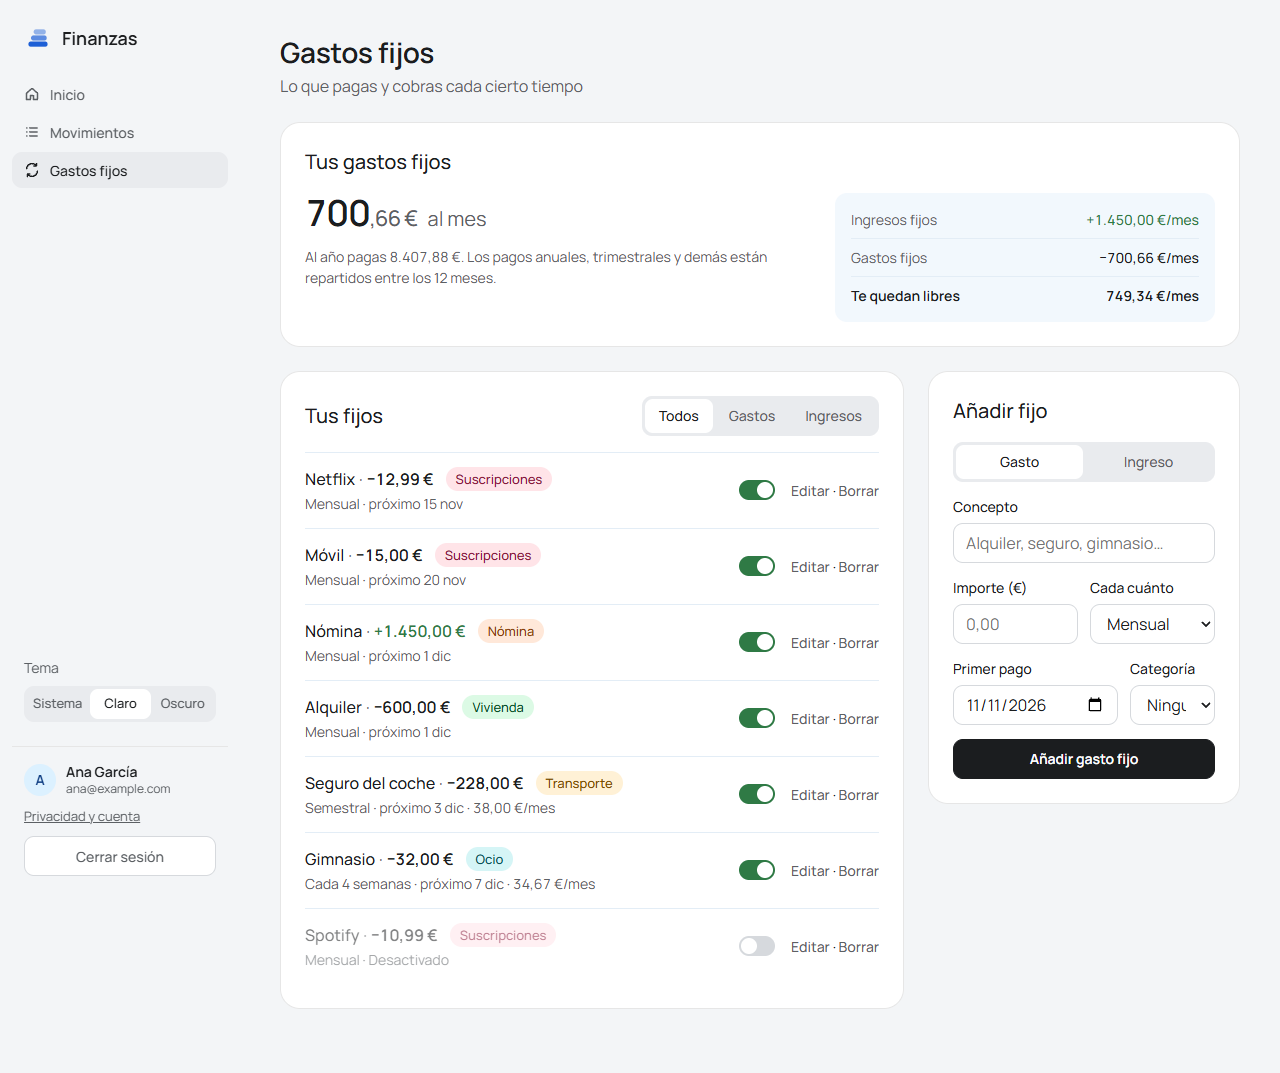
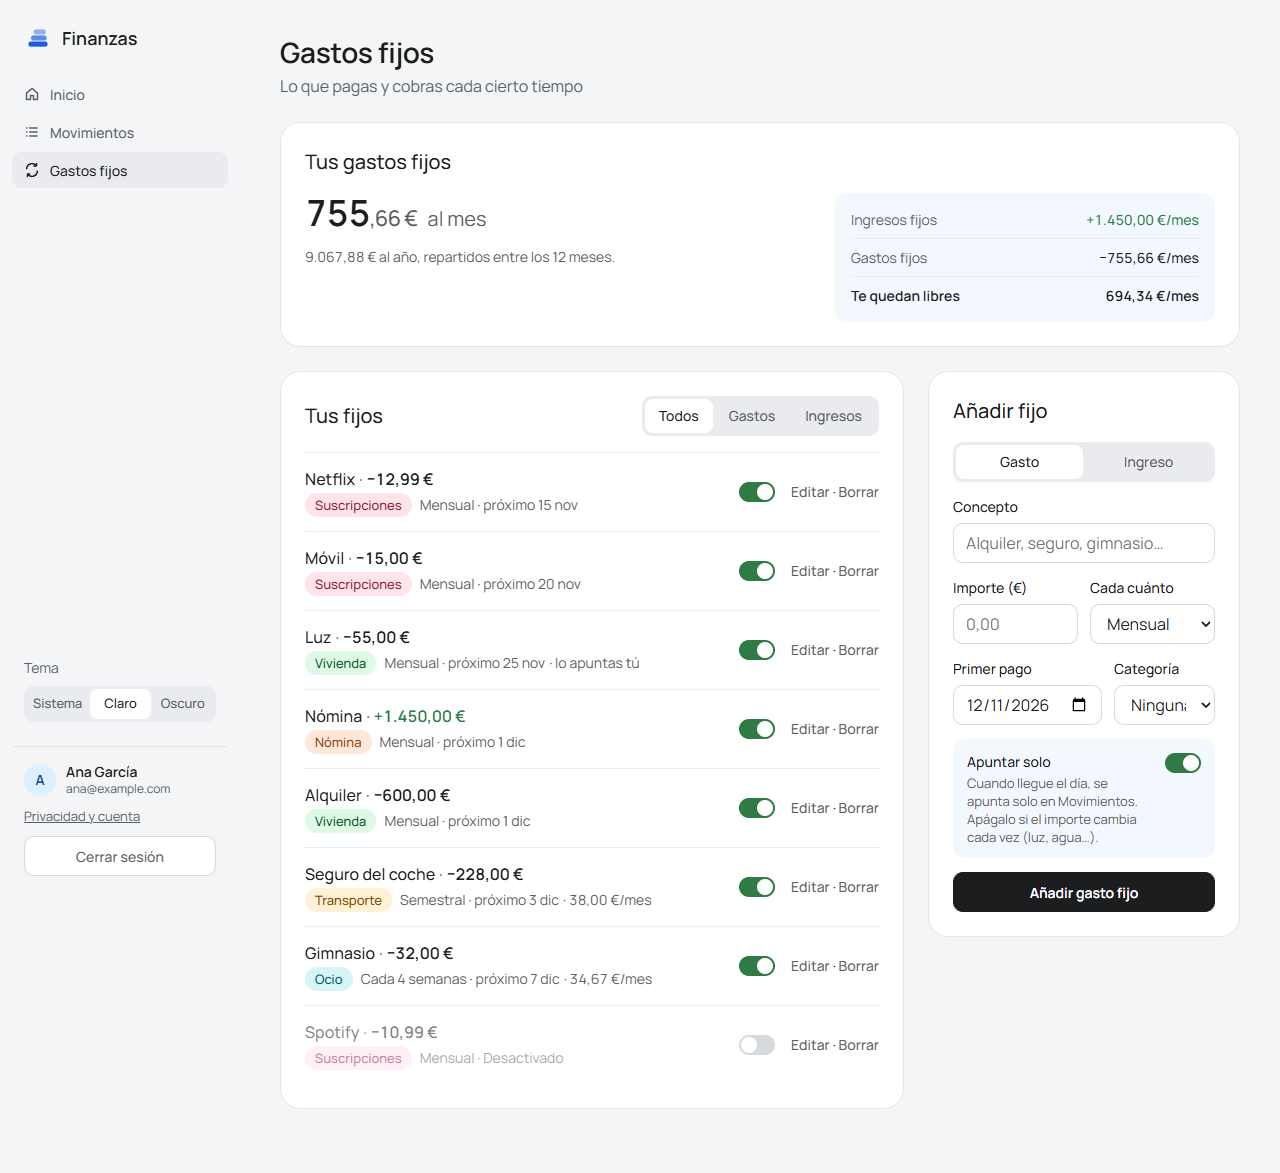
README: fijos que se apuntan solos, pruebas y capturas nuevas

diff --git a/README.md b/README.md
@@ -6,26 +6,27 @@ App web para controlar tu dinero: lo que entra, lo que sale y los pagos que se r
 
 > La API está en el plan gratis de Render, que la apaga tras 15 minutos sin uso. Si nadie la ha usado en un rato, la primera vez tarda 2 o 3 minutos en arrancar; la web lo avisa y reintenta sola.
 
-![Pantalla de inicio: saldo de hoy, gráfico de cómo irá el saldo en los próximos 30 días, próximos pagos y resumen del mes](docs/capturas/inicio.png)
+![Pantalla de inicio: saldo de hoy, cómo acabará el mes, gráfico de cómo irá el saldo en los próximos 30 días y próximos pagos](docs/capturas/inicio.png)
 
 <sub>Las capturas usan datos inventados.</sub>
 
 ## Qué hace
 
 - **Saldo de hoy y previsión día a día.** Le dices cuánto tienes en el banco y calcula cuánto te quedará cada día de los próximos 30, contando los pagos fijos. Si algún día bajas de 0, te avisa en rojo y te dice cuál.
-- **Movimientos.** Apuntas gastos e ingresos con categoría y fecha, los ves agrupados por día, filtras por mes y los editas si te has equivocado.
+- **Movimientos.** Apuntas gastos e ingresos con categoría y fecha, los ves agrupados por día, filtras por mes y los editas si te has equivocado. Los importes se escriben como en España (`1.234,56`).
 - **Gastos fijos.** Pagos que se repiten cada semana, cada 4 semanas, cada mes, cada 2, 3 o 6 meses o cada año. Te dice cuánto suponen al mes y al año y cuándo toca el siguiente. Se pueden editar o pausar con un interruptor.
+- **Los fijos se apuntan solos.** Cuando llega el día de un gasto fijo, al abrir la app se apunta solo como movimiento (marcado como *automático*, y se puede editar). Nunca se apunta dos veces, no rellena meses pasados y se puede apagar en los que cambian de importe, como la luz.
 - **Resumen del mes.** Lo que ha entrado y salido, por categoría, con gráficos de los últimos meses.
 - **Cuentas de usuario.** Login con Google, sin contraseñas. Cada usuario ve solo sus datos y puede borrar su cuenta con todo lo que tenga.
-- **Tema claro y oscuro**, y se usa bien en el móvil.
+- **Pensada también para el móvil:** barra de navegación abajo, botón **+** para apuntar y formularios en hojas que suben desde abajo. Con tema claro y oscuro, y animaciones cortas que se quitan si el sistema pide menos movimiento.
 
 ## Capturas
 
-**Movimientos:** apuntar, gráfico de los últimos 6 meses, lista del mes y gasto por categoría.
+**Movimientos:** apuntar, gráfico de los últimos 6 meses, lista del mes (con los fijos que se apuntaron solos) y gasto por categoría.
 
 ![Pantalla de movimientos](docs/capturas/movimientos.png)
 
-**Gastos fijos:** cuánto suponen al mes, la lista con su próxima fecha y el formulario para añadir.
+**Gastos fijos:** cuánto suponen al mes, la lista con su próxima fecha y el formulario para añadir, con el interruptor "Apuntar solo".
 
 ![Pantalla de gastos fijos](docs/capturas/fijos.png)
 
@@ -50,7 +51,7 @@ Netlify sirve la web y reenvía todo lo que empieza por `/api` a la API, así el
 | API | Java 21, Spring Boot 4, Spring Data JPA, Spring Security (OAuth2 Resource Server), Bean Validation |
 | Base de datos | PostgreSQL 18, migraciones con Flyway |
 | Web | React 19, TypeScript, Vite. Sin librerías de componentes ni de gráficos: los gráficos son SVG hechos a mano |
-| Tests | JUnit 5, MockMvc, H2 en memoria (119 tests) |
+| Tests | JUnit 5, MockMvc, H2 en memoria (140 tests) |
 | Despliegue | Docker, Render (API), Neon (base de datos), Netlify (web) |
 
 ### Algunas decisiones
@@ -58,8 +59,9 @@ Netlify sirve la web y reenvía todo lo que empieza por `/api` a la API, así el
 - **El dinero nunca es `double`.** En Java es `BigDecimal` y en la base de datos `NUMERIC(12,2)`, para no perder céntimos por redondeos.
 - **Login con Google + JWT propio.** La web obtiene un token de Google; la API comprueba su firma con las claves públicas de Google (y que va dirigido a esta app y el email está verificado) y devuelve su propio JWT de 7 días. Así la API no guarda contraseñas y el resto de peticiones no dependen de Google.
 - **Datos separados por usuario.** Todas las tablas tienen `usuario_id` y cada consulta filtra por el usuario del token. Hay un test con dos usuarios que comprueba que uno no puede leer, cambiar ni borrar lo del otro.
-- **La fecha de "hoy" se inyecta** (`Clock`) para que los tests de la previsión no dependan del día en que se ejecutan.
-- **Nunca se modifica una migración ya aplicada.** Cada cambio de tablas es una migración nueva (V1 a V8).
+- **La fecha de "hoy" se inyecta** (`Clock`) para que los tests de la previsión no dependan del día en que se ejecutan. El reloj va siempre en hora de España: el servidor está en UTC y, sin eso, entre las 00:00 y la 01:00 la API creía que todavía era ayer.
+- **Los fijos que se apuntan solos no se duplican.** Cada fijo guarda hasta qué día está apuntado: al abrir la app se apuntan las fechas desde esa marca hasta hoy y la marca avanza. Como el servidor gratis se duerme, no hay tareas programadas: se hace al abrir la app. Y si se abre en dos pestañas a la vez, los fijos se bloquean en la base de datos (`SELECT ... FOR UPDATE`) y la segunda petición espera a la primera y ya no encuentra nada pendiente. Está probado con dos peticiones simultáneas contra PostgreSQL.
+- **Nunca se modifica una migración ya aplicada.** Cada cambio de tablas es una migración nueva (V1 a V9).
 - **Los secretos van en variables de entorno**, nunca en el código.
 
 ## Seguridad
@@ -73,7 +75,7 @@ La app está abierta a cualquiera con una cuenta de Google, así que está pensa
 | Falsificar o reutilizar una sesión | JWT firmado con HS256 y una clave de al menos 32 caracteres que solo existe en el servidor. Caduca a los 7 días y deja de valer al momento si el usuario borra su cuenta |
 | Robo de contraseñas | No hay contraseñas: el login es solo con Google |
 | Inyección SQL | Spring Data JPA con consultas parametrizadas |
-| Datos absurdos (textos enormes, importes gigantes, rangos de fechas sin fin) | Bean Validation en cada petición y límites en los parámetros; la API responde 400 |
+| Datos absurdos (textos enormes, importes gigantes, el año 1 o el 10000, rangos de fechas sin fin) | Bean Validation en cada petición (fechas solo entre 2000 y 2100, con una regla propia `@FechaRazonable`) y límites en los parámetros; la API responde 400 |
 | Código malicioso en la web (XSS) | React escapa todo lo que pinta y la web manda una **Content Security Policy** que solo deja cargar código, estilos e imágenes de la propia web y de Google |
 | Meter la web en un marco de otra para engañar al usuario (clickjacking) | `frame-ancestors 'none'` y `X-Frame-Options: DENY` |
 | Llenar la base de datos para tirar la app a todos | Límite por usuario: 20.000 movimientos, 100 categorías, 200 gastos fijos y 5.000 saldos. Al llegar, la API responde 409 con un mensaje claro |
@@ -128,6 +130,13 @@ Abre http://localhost:5173. Vite reenvía `/api` al puerto 8080.
 
 Usan H2 en memoria, así que no necesitan PostgreSQL ni Google.
 
+## Cómo se ha probado
+
+- **140 tests automáticos** (JUnit + MockMvc) que llaman a la API como lo haría la web: validaciones, cálculos de la previsión, separación entre usuarios, límites, fijos que se apuntan solos, fechas fuera de rango...
+- **Pruebas trampa:** al añadir algo importante, se rompe a propósito (por ejemplo, quitar el filtro por usuario o no mover la marca de los fijos) para comprobar que los tests se ponen en rojo.
+- **Migraciones en PostgreSQL de verdad**, en una base de datos temporal y con datos de antes, además de H2.
+- **Caja negra:** un script que ataca la API ya arrancada con 97 casos (pulseras falsas o caducadas, otro usuario, importes y fechas absurdas, JSON roto...) y la web en el navegador contra esa API. Encontró fallos que los tests no veían, ya corregidos: el año 1 y el 10000 se aceptaban como fechas, una fecha extrema rompía la API con un 500, `1.000` se guardaba como 1 € y, al cambiar de mes muy rápido, una respuesta lenta podía pintar el mes equivocado.
+
 ## API
 
 Todas las rutas piden `Authorization: Bearer <token>` salvo `POST /api/auth/google`.
@@ -139,6 +148,7 @@ Todas las rutas piden `Authorization: Bearer <token>` salvo `POST /api/auth/goog
 | `/api/movimientos` | CRUD de movimientos |
 | `/api/categorias` | CRUD de categorías |
 | `/api/pagos-recurrentes` | CRUD de gastos fijos; `/proximos?desde=&dias=` lista los próximos pagos |
+| `POST /api/pagos-recurrentes/apuntar-pendientes` | Apunta como movimientos los fijos que ya han llegado a su día (la web lo llama al abrirse) |
 | `GET /api/resumen?mes=AAAA-MM` | Totales del mes por categoría |
 | `GET /api/prevision` | Cómo acabará el mes con lo apuntado y los pagos que faltan |
 | `/api/saldo-banco` | Guardar el saldo de hoy, historial y `/prevision?dias=` día a día |
@@ -150,9 +160,11 @@ src/main/java/.../finanzas/
   movimiento/  categoria/  pagorecurrente/  banco/    cada parte con su controller, service, repository y entidad
   resumen/  prevision/                                cálculos del mes
   seguridad/  usuario/                                login con Google, JWT y cuentas
-src/main/resources/db/migration/                      migraciones de Flyway (V1 a V8)
+  fecha/                                              qué fechas se admiten (2000 a 2100)
+src/main/resources/db/migration/                      migraciones de Flyway (V1 a V9)
 web/src/
   pantallas/     Inicio, Movimientos, Gastos fijos, Entrar, Privacidad
-  componentes/   tarjetas, formularios, listas y gráficos
+  componentes/   tarjetas, formularios, listas, gráficos, hojas y barra del móvil
   api.ts         llamadas a la API (token, reintentos si está dormida)
+  fijosSolos.ts  al abrir la app, pide que se apunten los fijos pendientes
 ```
